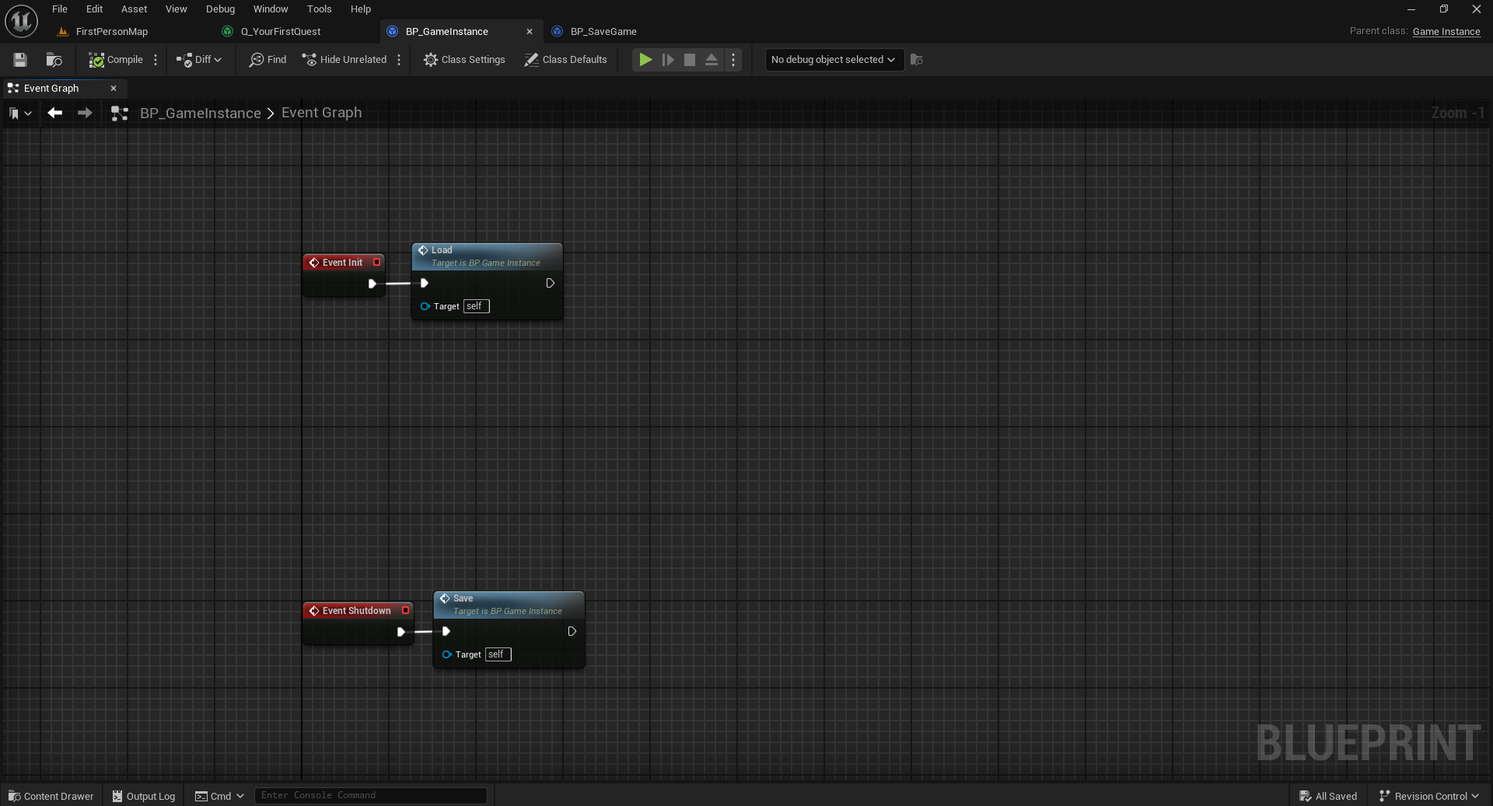
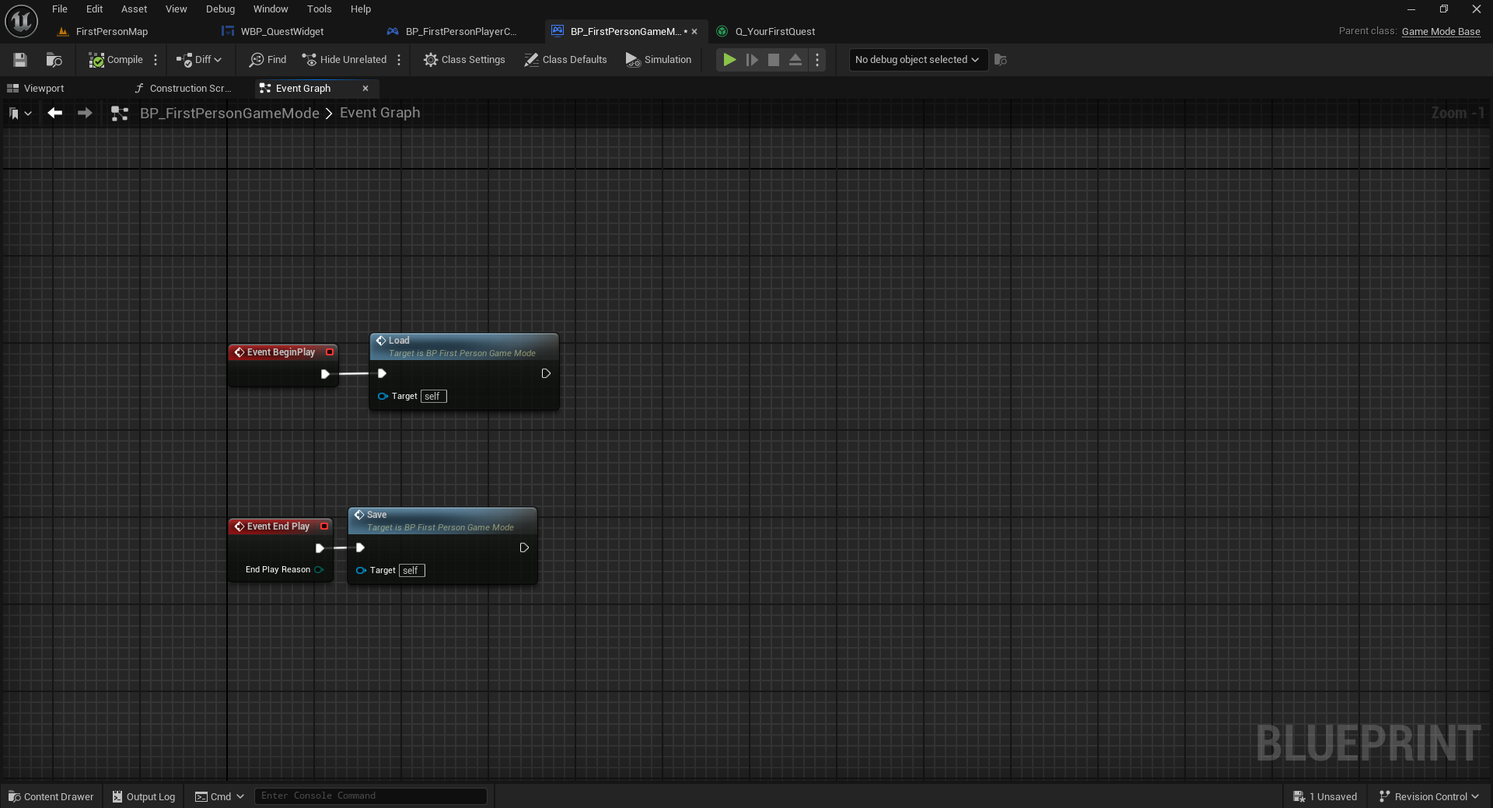
Update

diff --git a/Docs/QuestSystemPlugin/UsingThePlugin/quest-tracking.html b/Docs/QuestSystemPlugin/UsingThePlugin/quest-tracking.html
@@ -1,7 +1,7 @@
 <!DOCTYPE HTML>
 <html>
 	<head>
-		<title>YourFirstQuest | QuestSystemPlugin</title>
+		<title>QuestTracking | QuestSystemPlugin</title>
 		<meta charset="utf-8" />
 		<meta name="viewport" content="width=device-width, initial-scale=1, user-scalable=no" />
 		<link rel="stylesheet" href="../../assets/css/main.css" />
@@ -29,130 +29,65 @@
 									
 									<hr class="major" />
 
-									<h2>Creating the quest asset</h2>
-									<ol>
-										<li><p>Right click on the content browser and select <strong>Quest System</strong> -> <strong>Action Sequence</strong>.</p></li>
-										<li><p>Select <strong>Quest</strong> as the class for your asset and click Ok.</p></li>
-										<li><p>Name your quest asset. We recommend prefixing your asset with <strong>Q_</strong> so your quest asset can be <strong>Q_YourFirstQuest</strong>.</p></li>
-										<li><p>Double click the asset to open the editor. Your quest asset is ready for you to work with!</p></li>
-									</ol>
-
-									<hr class="major" />
-
-									<h2>An intro to the quest editor</h2>
-									<p>The quest editor interface is similar to other asset editors with graphs in Unreal Engine, like the materials editor and sound editor.
-										The editor has a details panel to show the details of the currently selected object, a graph canvas to script the quest with and 
-										a pallete with all available action blocks for the quest.
-									</p>
-									<span class="image main"><img  width = 100% src="/Docs/images/QuestEditorLayout.png" alt="Quest editor layout" /></span>
-									
-									<p>To add an action to your graph, drag and drop the action from the palette, or right click on the graph and select the action from the context menu.</p>
-									<p>Every quest asset has a begin node. This node will fire when the quest is activated and any actions connected to this node will be activated.</p>
-									
-									<br/>
-									
-									<h3>Anatomy of a node</h3>
-									<span class="image"><img  width = 100% src="/Docs/images/GateActionNodeLayout.png" alt="Gate Action Node Layout" /></span>
+									<h2>Quest Widget</h2>
 									<p>
-										Actions have two types of pins: Execution pins and Property pins. Execution pins are always in Red and Property pins are always in Yellow.
-										All exposed functions for the action will be shown as red input pins. All exposed delegates will be shown as red output pins.
-										All input properties will be shown as yellow input pins and all output properties will be shown as yellow output pins.
+										The quest system plugin comes with a sample widget for tracking Quests called WBP_QuestWidget. You can find in the plugin's content folder at <strong>Plugins/QuestSystemContent/Widgets</strong>. Feel free to edit it or create your own widget for your project needs. The quest widget has a text block to show the quest's name and another text block to show Objective's name. This widget only supports one objective but the quest system itself supports multiple objectives to be active at a time per quest.
 									</p>
 									<p>
-										Every node has an unnamed pin at the right end of the node's title bar. This pin is a property pin and is the reference to the action represented by the node.
+										The widget comes with two functions. The <strong>SetTrackedQuest</strong> function sets the quest trcked by the widget. It first untracks any currently tracked quest, binds to state change delegates for actions inside the quest so it can update the objective text, and sets the quest name and objective name.
 									</p>
-									
-									<span class="image"><img  width = 100% src="/Docs/images/ServiceNodeLayout.png" alt="Service Node Layout" /></span>
 									<p>
-										Service nodes do not have Execution pins. To learn more about Services, go to the <a href="/Docs/QuestSystemPlugin/UsingThePlugin/an-intro-to-services.html">Intro to Services</a> page.
-									</p>
-									
-									<hr class="major" />
-
-									<h2>Example quest</h2>
-									<p>Lets create our very first quest! Follow the steps below to create a simple quest where the character walks to a location, an actor is spawned into the world, the player destroys it, and the quest ends.</p>
-									<p>We will need an actor that can be destroyed for this quest. Since we are using the first person shooter template, we already have a gun and bullets. Let's create an actor that will be destoyed when hit by a bullet.</p>
-									<ol>
-										<li>
-											<p>Create an actor blueprint and call it BP_DestroyableActor.</p>
-										</li>
-										<li>
-											<p>
-												Add a static mesh component and set the mesh to a cube mesh.
-											</p>
-										<span class="image main"><img  width = 100% src="/Docs/images/DestroyableActorLayout.png" alt="" /></span>
-										</li>
-										<li>
-											<p>
-												Add an OnHit event for the static mesh component. If the hit actor is a <strong>BP_FirstPersonprojectile</strong>, Destroy the actor.
-											</p>
-											<span class="image main"><img  width = 100% src="/Docs/images/DestroyableActorCode.png" alt="" /></span>
-										</li>
-									</ol>
-									<p>The actor is ready. Drop one in the world and try shooting it. It should disappear when hit by a bullet.</p>
-									<hr/>
-									<p>Let's setup the world now.</p>
-									<ol>
-										<li><p>Add a trigger volume to the world at the location you want the character to reach as part of the quest. Call it <strong>ReachLocation</strong>.</p></li>
-										<li><p>
-											Add another trigger volume at the location where you want to spawn the destroyable actor from the quest graph Call it <strong>SpawnLocation</strong>..
-										</p></li>
-									</ol>
-									<p>The world should look something like the one shown below. There is a trigger volume in front of the weapon pickup and another on the platform. The destroyable actor will be spawned on the platform.</p>
-									<span class="image main"><img  width = 100% src="/Docs/images/FirstQuestWorldLayout.png" alt="" /></span>
-									<hr/>
-									<p>Now that the world is setup, lets script the quest.</p>
-									<ol>
-										<li><p>Open the previously created quest asset.</p></li>
-										<li>
-											<p>
-												Add a <b>Reach Location</b> node to the graph and connect the begin node's output pin to the activate pin of the new node. 
-												In the details panel, set the location to the <strong>ReachLocation</strong> trigger volume.
-											</p>
-											<span class="image main"><img  width = 100% src="/Docs/images/FirstQuestReachLocationStep.png" alt="" /></span>
-										</li>
-										<li>
-											<p>Add a <b>Spawn Enemies</b> node and connect the completed pin of the <b>Reach Location</b> node to the activate pin of the new node. In the details panel, set the actor class 
-												to <i>BP_DestroyableActor</i> and the location to the <strong>SpawnLocation</strong> trigger volume.
-											</p>
-											<span class="image main"><img  width = 100% src="/Docs/images/FirstQuestSpawnEnemiesStep.png" alt="" /></span>
-										</li>
-										<li><p>
-												Add an <b>Eliminate Targets</b> node to the graph and connect the <b>Spawn Enemies</b> node's completed pin to the activate pin of the new node. 
-												Connect the <strong>SpawnedEnemies</strong> pin to the <strong>ActorsToEliminate</strong> pin.
-											</p>
-											<span class="image main"><img  width = 100% src="/Docs/images/FirstQuestEliminateEnemiesStep.png" alt="" /></span>
-										</li>
-										<li><p><span class = "icon solid fa-exclamation"></span> <strong>[Important]</strong> Add a <strong>Complete Action Sequence</strong> node. This node is important as this calls the complete function on the quest and marks it as <i>Ended</i>.
-										 Without this node, the quest will never end and always be active even if none of its actions are active. Connect the Completed pin of the <b>Eliminate Targets</b> node to the new node.</p>
-										 	<span class="image main"><img  width = 100% src="/Docs/images/FirstQuestCompleteSequenceStep.png" alt="" /></span>
-										</li>
-										<li><p>We want this quest to activate automatically. So go to the details panel and set <strong>Auto Activate</strong> to true.</p>
-											<span class="image main"><img  width = 100% src="/Docs/images/FirstQuestSetAutoActivateStep.png" alt="" /></span>
-										</li>
-									</ol>
-									<p>
-										That's it! The quest has been scripted.
+										The <strong>UnsetTrackedQuest</strong> function removes the bindings to state change delegates and sets the quest and objective text to empty texts.
 									</p>
 
 									<hr class="major" />
 
-									<h2>Playing the quest</h2>
+									<h2>Adding names to the quest</h2>
 									<p>
-										To play the quest, we need to load the quest asset. The best place to load assets might be different for each game, but for this example we will load quests from the level Blueprint. Open the level blueprint and override the function <strong>Event BeginPlay</strong>.
-										Right click on the graph and search for a reference to the Quest Subsystem and call <strong>Load Quest Assets</strong> on the Quest Subsystem. It takes an <strong>FDirectoryPath</strong> argument. Create a variable and set its value to the directory where your quests are stored. In this example, quests are stored in <strong>/Game/Quests</strong>.
+										Before quest names can be displayed on the widget, the quest itself and the objectives need to have a name to display. If you followed along with the <a href="/Docs/QuestSystemPlugin/UsingThePlugin/your-first-quest.html">Your First Quest</a> example, Open the quest asset and do the following:
 									</p>
-									<span class="image main"><img  width = 100% src="/Docs/images/FirstQuestLoadQuests.png" alt="" /></span>
-									<p>
-										Hit play in the editor to start a PIE session. The quests will load and will be automatically activated and you can play it. Go to the first Trigger volume, watch the "Enemy" get spawned, shoot it to destroy it and the quest should end. The Quest asset's editor can be used to track this.
-									</p>
-									<video width = 100% controls>
-										<source src="/Docs/videos/FirstQuestVideo.mp4" type="video/mp4">
-									</video>
-									<p>
-										You have your first quest!
-									</p>
+									<ol>
+										<li>
+											<p>Give the quest a name by setting the <strong>Quest Name</strong> field. This example has the quest named <strong>Sample Quest</strong>.</p>
+											<span class="image main"><img  width = 100% src="/Docs/images/SampleQuestNaming.png" alt="" /></span>
+										</li>
+										<li>
+											<p>Select the Reach location node and give it a name. This example has the objective named <strong>Go near the platform</strong>.</p>
+											<span class="image main"><img  width = 100% src="/Docs/images/SampleQuestReachLocationName.png" alt="" /></span>
+										</li>
+										<li>
+											<p>Select the Eliminate Targets node and give it a name. This example has the objective named <strong>Destroy the cube</strong>.</p>
+											<span class="image main"><img  width = 100% src="/Docs/images/SampleQuestEliminateTargetsName.png" alt="" /></span>
+										</li>
+									</ol>
 
+									<hr class="major" />
+
+									<h2>Displaying quest widget on the HUD</h2>
+									<p>
+										Now that you have a quest with names and a quest widget to show the names, it is time to add the widget on the HUD for the players to see.
+									</p>
+									<ol>
+										<li>
+											<p>Open the <strong>BP_FirstPersonPlayerController</strong> blueprint. From the <strong>Event Begin Play</strong> function, extend from the <strong>Add Mapping Context</strong> node and add a <strong>Create Widget</strong> node. Set the widget class to <strong>WBP_QuestWidget</strong>.</p>
+											<span class="image main"><img  width = 100% src="/Docs/images/CreateQuestWidget.png" alt="" /></span>
+										</li>
+										<li>
+											<p>Get <strong>Quest Subsystem</strong>, get quests array from the subsystem and get the quest at index 0. Call <strong>Set Tracked Quest</strong> function on the quest widget and give it the quest at index 0.</p>
+											<span class="image main"><img  width = 100% src="/Docs/images/QuestWidgetSetTrackedWidget.png" alt="" /></span>
+										</li>
+										<li>
+											<p>Add the quest widget to the viewport. Compile the blueprint.</p>
+											<span class="image main"><img  width = 100% src="/Docs/images/QuestWidgetAddToViewport.png" alt="" /></span>
+										</li>
+									</ol>
+									<p>Play the game and the quest should be visible on the screen.</p>
+
+									<hr class="major" />
+
+									<p>
+										The plugin does not have out of the box support for world markers for the objectives.
+									</p>
 								</section>
 
 						</div>

diff --git a/Docs/QuestSystemPlugin/UsingThePlugin/property-bindings.html b/Docs/QuestSystemPlugin/UsingThePlugin/property-bindings.html
@@ -1,7 +1,7 @@
 <!DOCTYPE HTML>
 <html>
 	<head>
-		<title>CreatingQuests | QuestSystemPlugin</title>
+		<title>PropertyBinding | QuestSystemPlugin</title>
 		<meta charset="utf-8" />
 		<meta name="viewport" content="width=device-width, initial-scale=1, user-scalable=no" />
 		<link rel="stylesheet" href="../../assets/css/main.css" />
@@ -20,35 +20,31 @@
 							<!-- Content -->
 								<section>
 									<header class="main">
-										<h1>An Intro to Services</h1>
+										<h1>Property binding</h1>
 									</header>
 
 									<span class="image main"><img src="/Docs/images/pic11.jpg" alt="" /></span>
 
-									<ol>
-										<li><p>Right click on the content browser, go to the <strong>Quest System</strong> section and select <strong>Action Sequence</strong></p></li>
-										<li><p></p></li>
-										<li><p></p></li>
-									</ol>
+									<p>
+										Quest actions can have their properties bound to notebook properties. These bindings can read from or write to notebook properties. The details panel of every action shows a list of notebook bindings for debug purposes. <strong>Do not edit these manually</strong>. These values can be checked to see what type of bindings have been made and whether the binding will read from or write to the notebook property.
+									</p>
+									<p>
+										The <strong>Update Frequency</strong> property of a notebook binding decides when a binding is processed. The update types are:
+									</p>
+									<ul>
+										<li><p><strong>InitialOnly</strong>: This binding is processed only on initial activation of the action.</p></li>
+										<li><p><strong>ActivationsOnly</strong>: This binding is processed on all activations of the action, as when an action is activated, deactivated and reactivated.</p></li>
+										<li><p><strong>EndOnly</strong>: This binding is processed only when action ends.</p></li>
+									</ul>
 
-									<hr class="major" />
+									<p>
+										To make a binding, select the action with the property you want to make a binding for, press the bind button and choose the notebook property you want to bind to.
+									</p>
+									<span class="image main"><img  width = 100% src="/Docs/images/BoolPropertyBinding.png" alt="" /></span>
 
-									<h2>Interdum sed dapibus</h2>
-									<p>Donec eget ex magna. Interdum et malesuada fames ac ante ipsum primis in faucibus. Pellentesque venenatis dolor imperdiet dolor mattis sagittis. Praesent rutrum sem diam, vitae egestas enim auctor sit amet. Pellentesque leo mauris, consectetur id ipsum sit amet, fergiat. Pellentesque in mi eu massa lacinia malesuada et a elit. Donec urna ex, lacinia in purus ac, pretium pulvinar mauris. Curabitur sapien risus, commodo eget turpis at, elementum convallis elit. Pellentesque enim turpis, hendrerit.</p>
-									<p>Lorem ipsum dolor sit amet, consectetur adipiscing elit. Duis dapibus rutrum facilisis. Class aptent taciti sociosqu ad litora torquent per conubia nostra, per inceptos himenaeos. Etiam tristique libero eu nibh porttitor fermentum. Nullam venenatis erat id vehicula viverra. Nunc ultrices eros ut ultricies condimentum. Mauris risus lacus, blandit sit amet venenatis non, bibendum vitae dolor. Nunc lorem mauris, fringilla in aliquam at, euismod in lectus. Pellentesque habitant morbi tristique senectus et netus et malesuada fames ac turpis egestas. In non lorem sit amet elit placerat maximus. Pellentesque aliquam maximus risus, vel sed vehicula. Interdum et malesuada fames ac ante ipsum primis in faucibus. Pellentesque venenatis dolor imperdiet dolor mattis sagittis. Praesent rutrum sem diam, vitae egestas enim auctor sit amet. Pellentesque leo mauris, consectetur id ipsum sit amet, fersapien risus, commodo eget turpis at, elementum convallis elit. Pellentesque enim turpis, hendrerit tristique lorem ipsum dolor.</p>
-
-									<hr class="major" />
-
-									<h2>Magna etiam veroeros</h2>
-									<p>Lorem ipsum dolor sit amet, consectetur adipiscing elit. Duis dapibus rutrum facilisis. Class aptent taciti sociosqu ad litora torquent per conubia nostra, per inceptos himenaeos. Etiam tristique libero eu nibh porttitor fermentum. Nullam venenatis erat id vehicula viverra. Nunc ultrices eros ut ultricies condimentum. Mauris risus lacus, blandit sit amet venenatis non, bibendum vitae dolor. Nunc lorem mauris, fringilla in aliquam at, euismod in lectus. Pellentesque habitant morbi tristique senectus et netus et malesuada fames ac turpis egestas. In non lorem sit amet elit placerat maximus. Pellentesque aliquam maximus risus, vel sed vehicula.</p>
-									<p>Interdum et malesuada fames ac ante ipsum primis in faucibus. Pellentesque venenatis dolor imperdiet dolor mattis sagittis. Praesent rutrum sem diam, vitae egestas enim auctor sit amet. Pellentesque leo mauris, consectetur id ipsum sit amet, fersapien risus, commodo eget turpis at, elementum convallis elit. Pellentesque enim turpis, hendrerit tristique lorem ipsum dolor.</p>
-
-									<hr class="major" />
-
-									<h2>Lorem aliquam bibendum</h2>
-									<p>Donec eget ex magna. Interdum et malesuada fames ac ante ipsum primis in faucibus. Pellentesque venenatis dolor imperdiet dolor mattis sagittis. Praesent rutrum sem diam, vitae egestas enim auctor sit amet. Pellentesque leo mauris, consectetur id ipsum sit amet, fergiat. Pellentesque in mi eu massa lacinia malesuada et a elit. Donec urna ex, lacinia in purus ac, pretium pulvinar mauris. Curabitur sapien risus, commodo eget turpis at, elementum convallis elit. Pellentesque enim turpis, hendrerit.</p>
-									<p>Lorem ipsum dolor sit amet, consectetur adipiscing elit. Duis dapibus rutrum facilisis. Class aptent taciti sociosqu ad litora torquent per conubia nostra, per inceptos himenaeos. Etiam tristique libero eu nibh porttitor fermentum. Nullam venenatis erat id vehicula viverra. Nunc ultrices eros ut ultricies condimentum. Mauris risus lacus, blandit sit amet venenatis non, bibendum vitae dolor. Nunc lorem mauris, fringilla in aliquam at, euismod in lectus. Pellentesque habitant morbi tristique senectus et netus et malesuada fames ac turpis egestas. In non lorem sit amet elit placerat maximus. Pellentesque aliquam maximus risus, vel sed vehicula.</p>
-
+									<p>
+										To read more on creating actions with properties that are notebook bindable, go to <a href="/Docs/QuestSystemPlugin/ExtendingThePlugin/custom-action.html">Custom Actions</a> page.
+									</p>
 								</section>
 
 						</div>

diff --git a/Docs/QuestSystemPlugin/UsingThePlugin/saving-and-loading-quests.html b/Docs/QuestSystemPlugin/UsingThePlugin/saving-and-loading-quests.html
@@ -1,7 +1,7 @@
 <!DOCTYPE HTML>
 <html>
 	<head>
-		<title>CreatingQuests | QuestSystemPlugin</title>
+		<title>SavingLoadingQuests | QuestSystemPlugin</title>
 		<meta charset="utf-8" />
 		<meta name="viewport" content="width=device-width, initial-scale=1, user-scalable=no" />
 		<link rel="stylesheet" href="../../assets/css/main.css" />
@@ -40,7 +40,7 @@
 									</p>
 
 									<p>
-										These archive structs can be conviniently stored inside a Save Game object. Continuing the first person shooter example from <a href="/Docs/QuestSystemPlugin/UsingThePlugin/your-first-quest.html">Your First Quest</a> example, Create a blueprint derived from <strong>USaveGame</strong> and call it <strong>BP_SaveGame</strong>.
+										These archive structs can be conveniently stored inside a Save Game object. Continuing the first person shooter example from <a href="/Docs/QuestSystemPlugin/UsingThePlugin/your-first-quest.html">Your First Quest</a> example, Create a blueprint derived from <strong>USaveGame</strong> and call it <strong>BP_SaveGame</strong>.
 										Create two variables in the save game blueprint of type <strong>FQuestSaveArchive</strong> and <strong>FNotebookSaveArchive</strong> and call them QuestsArchive and NotebooksArchive respectively. These will be saved when the save object is saved to a file.
 									</p>
 									<span class="image main"><img width = 100% src="/Docs/images/SaveGameObjectWithArchives.png" alt="" /></span>
@@ -50,11 +50,11 @@
 									</p>
 									<ol>
 										<li>
-											<p>Create a blueprint derived from <strong>UGameInstance</strong> and call it BP_GameInstance. Create variables <strong>SaveObject</strong> of type <strong>BP_SaveGame</strong> and <strong>SlotName</strong> of type <strong>String</strong>. We will create the save object when the game starts. For now, set the SlotName variable's value to a non-empty value. This will be the name of the save file.</p>
-											<span class="image main"><img width = 100% src="/Docs/images/GameInstance.png" alt="" /></span>
+											<p>Open the <strong>BP_FirstPersonGameMode</strong> blueprint. Create variables <strong>SaveObject</strong> of type <strong>BP_SaveGame</strong> and <strong>SlotName</strong> of type <strong>String</strong>. We will create the save object when the game starts. For now, set the SlotName variable's value to a non-empty value. This will be the name of the save file.</p>
+											<span class="image main"><img width = 100% src="/Docs/images/GameMode.png" alt="" /></span>
 										</li>
 										<li>
-											<p>Create a custom event and call it <strong>Load</strong>. Script the function as shown below. The first half of the function checks if we have a save object file. If we have one we load it and load quests and notebooks from it. If we don't have a saved file, we just create a save game object to use later. We then load quest assets. If you followed the <a href="/Docs/QuestSystemPlugin/UsingThePlugin/your-first-quest.html">Your First Quest</a> example, remember to remove the call to Load Quest Assets from the level blueprint.</p>
+											<p>Create a custom event and call it <strong>Load</strong>. Script the function as shown below. The first part of the function checks if we have a save object file. If we have one we load it and load quests and notebooks from it. If we don't have a saved file, we just create a save game object to use later. We then load quest assets. If you followed the <a href="/Docs/QuestSystemPlugin/UsingThePlugin/your-first-quest.html">Your First Quest</a> example, remember to remove the call to <strong>Load Quest Assets</strong> from the level blueprint.</p>
 											<span class="image main"><img width = 100% src="/Docs/images/LoadGameFunc.png" alt="" /></span>
 										</li>
 										<li>
@@ -62,16 +62,13 @@
 											<span class="image main"><img width = 100% src="/Docs/images/SaveGameFunc.png" alt="" /></span>
 										</li>
 										<li>
-											<P>Override the <strong>Init</strong> and <strong>Shutdown</strong> functions in the game instance blueprint. Call <strong>Load</strong> from the <strong>Init</strong> Function and <strong>Save</strong> from the <strong>Shutdown</strong> function.</P>
+											<P>Override the <strong>Event Begin Play</strong> and <strong>Event End Play</strong> functions in the game mode blueprint. Call <strong>Load</strong> from the <strong>Event Begin Play</strong> Function and <strong>Save</strong> from the <strong>Event End Play</strong> function.</P>
 											<span class="image main"><img width = 100% src="/Docs/images/LoadAndSaveGame.png" alt="" /></span>
 										</li>
-										<li>
-											<P>Open project settings, go to <strong>Project</strong>-><strong>Maps & Modes</strong> and set the <strong>Game Instance Class</strong> to <strong>BP_GameInstance</strong>.</P>
-											<span class="image main"><img width = 100% src="/Docs/images/SetGameInstance.png" alt="" /></span>
-										</li>
 									</ol>
-									<p>The project will now save and load quests and notebooks. If you want to start the quests fresh and not from a saved state, disconnect the Load fucntion from the Init function or delete the SaveGame file which is located in the Project/Saved/SaveGame folder.</p>
+									<p>The project will now save and load quests and notebooks. If you want to start the quests fresh and not from a saved state, delete the SaveGame file which is located in the Project/Saved/SaveGames folder.</p>
 									<p>This only saves and loads quests and notebooks. Other data that needs to be saved, such as actors or player data are not handled. Do note that actors spawned from a quest are <strong>not</strong> saved and loaded with the quest.</p>
+									<p>This method will save and load quests when changing worlds. The first person example does not need to change worlds but if your game nees to change worlds, the game instance is a better place to manage saving and loading.</p>
 								</section>
 
 						</div>

diff --git a/Docs/QuestSystemPlugin/ExtendingThePlugin/custom-dialogue-participant.html b/Docs/QuestSystemPlugin/ExtendingThePlugin/custom-dialogue-participant.html
@@ -1,7 +1,7 @@
 <!DOCTYPE HTML>
 <html>
 	<head>
-		<title>YourFirstQuest | QuestSystemPlugin</title>
+		<title>CustomDialogueParticipant | QuestSystemPlugin</title>
 		<meta charset="utf-8" />
 		<meta name="viewport" content="width=device-width, initial-scale=1, user-scalable=no" />
 		<link rel="stylesheet" href="../../assets/css/main.css" />

diff --git a/Docs/QuestSystemPlugin/UsingThePlugin/asset-instances-references.html b/Docs/QuestSystemPlugin/UsingThePlugin/asset-instances-references.html
@@ -1,7 +1,7 @@
 <!DOCTYPE HTML>
 <html>
 	<head>
-		<title>YourFirstQuest | QuestSystemPlugin</title>
+		<title>AssetInstancesReferences | QuestSystemPlugin</title>
 		<meta charset="utf-8" />
 		<meta name="viewport" content="width=device-width, initial-scale=1, user-scalable=no" />
 		<link rel="stylesheet" href="../../assets/css/main.css" />

diff --git a/Docs/QuestSystemPlugin/UsingThePlugin/exposing-pins-to-outer-graph.html b/Docs/QuestSystemPlugin/UsingThePlugin/exposing-pins-to-outer-graph.html
@@ -1,7 +1,7 @@
 <!DOCTYPE HTML>
 <html>
 	<head>
-		<title>YourFirstQuest | QuestSystemPlugin</title>
+		<title>ExposingPinsToOuterGraph | QuestSystemPlugin</title>
 		<meta charset="utf-8" />
 		<meta name="viewport" content="width=device-width, initial-scale=1, user-scalable=no" />
 		<link rel="stylesheet" href="../../assets/css/main.css" />

diff --git a/Docs/QuestSystemPlugin/ExtendingThePlugin/custom-dialogue-fragment.html b/Docs/QuestSystemPlugin/ExtendingThePlugin/custom-dialogue-fragment.html
@@ -1,7 +1,7 @@
 <!DOCTYPE HTML>
 <html>
 	<head>
-		<title>YourFirstQuest | QuestSystemPlugin</title>
+		<title>CustomDialogueFragment | QuestSystemPlugin</title>
 		<meta charset="utf-8" />
 		<meta name="viewport" content="width=device-width, initial-scale=1, user-scalable=no" />
 		<link rel="stylesheet" href="../../assets/css/main.css" />

diff --git a/Docs/QuestSystemPlugin/UsingThePlugin/nested-action-sequences.html b/Docs/QuestSystemPlugin/UsingThePlugin/nested-action-sequences.html
@@ -1,7 +1,7 @@
 <!DOCTYPE HTML>
 <html>
 	<head>
-		<title>YourFirstQuest | QuestSystemPlugin</title>
+		<title>NestedActionSequences | QuestSystemPlugin</title>
 		<meta charset="utf-8" />
 		<meta name="viewport" content="width=device-width, initial-scale=1, user-scalable=no" />
 		<link rel="stylesheet" href="../../assets/css/main.css" />

diff --git a/Docs/QuestSystemPlugin/ExtendingThePlugin/custom-dialogue-entity.html b/Docs/QuestSystemPlugin/ExtendingThePlugin/custom-dialogue-entity.html
@@ -1,7 +1,7 @@
 <!DOCTYPE HTML>
 <html>
 	<head>
-		<title>YourFirstQuest | QuestSystemPlugin</title>
+		<title>CustomDialogueEntity | QuestSystemPlugin</title>
 		<meta charset="utf-8" />
 		<meta name="viewport" content="width=device-width, initial-scale=1, user-scalable=no" />
 		<link rel="stylesheet" href="../../assets/css/main.css" />

diff --git a/Docs/QuestSystemPlugin/UsingThePlugin/your-first-dialogue.html b/Docs/QuestSystemPlugin/UsingThePlugin/your-first-dialogue.html
@@ -1,7 +1,7 @@
 <!DOCTYPE HTML>
 <html>
 	<head>
-		<title>CreatingQuests | QuestSystemPlugin</title>
+		<title>YourFirstDialogue | QuestSystemPlugin</title>
 		<meta charset="utf-8" />
 		<meta name="viewport" content="width=device-width, initial-scale=1, user-scalable=no" />
 		<link rel="stylesheet" href="../../assets/css/main.css" />

diff --git a/Docs/QuestSystemPlugin/UsingThePlugin/an-intro-to-notebooks.html b/Docs/QuestSystemPlugin/UsingThePlugin/an-intro-to-notebooks.html
@@ -1,7 +1,7 @@
 <!DOCTYPE HTML>
 <html>
 	<head>
-		<title>CreatingQuests | QuestSystemPlugin</title>
+		<title>IntroToNotebooks | QuestSystemPlugin</title>
 		<meta charset="utf-8" />
 		<meta name="viewport" content="width=device-width, initial-scale=1, user-scalable=no" />
 		<link rel="stylesheet" href="../../assets/css/main.css" />

diff --git a/Docs/QuestSystemPlugin/UsingThePlugin/quest-replication.html b/Docs/QuestSystemPlugin/UsingThePlugin/quest-replication.html
@@ -1,7 +1,7 @@
 <!DOCTYPE HTML>
 <html>
 	<head>
-		<title>YourFirstQuest | QuestSystemPlugin</title>
+		<title>QuestReplication | QuestSystemPlugin</title>
 		<meta charset="utf-8" />
 		<meta name="viewport" content="width=device-width, initial-scale=1, user-scalable=no" />
 		<link rel="stylesheet" href="../../assets/css/main.css" />
